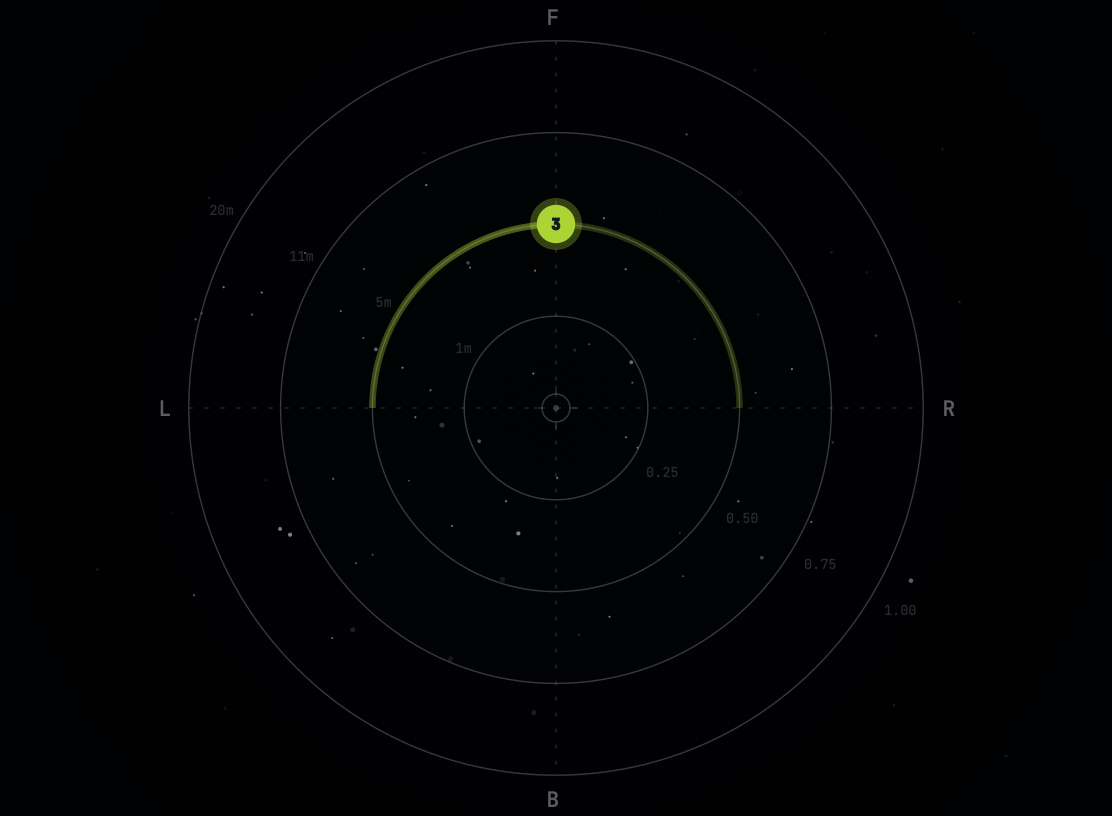
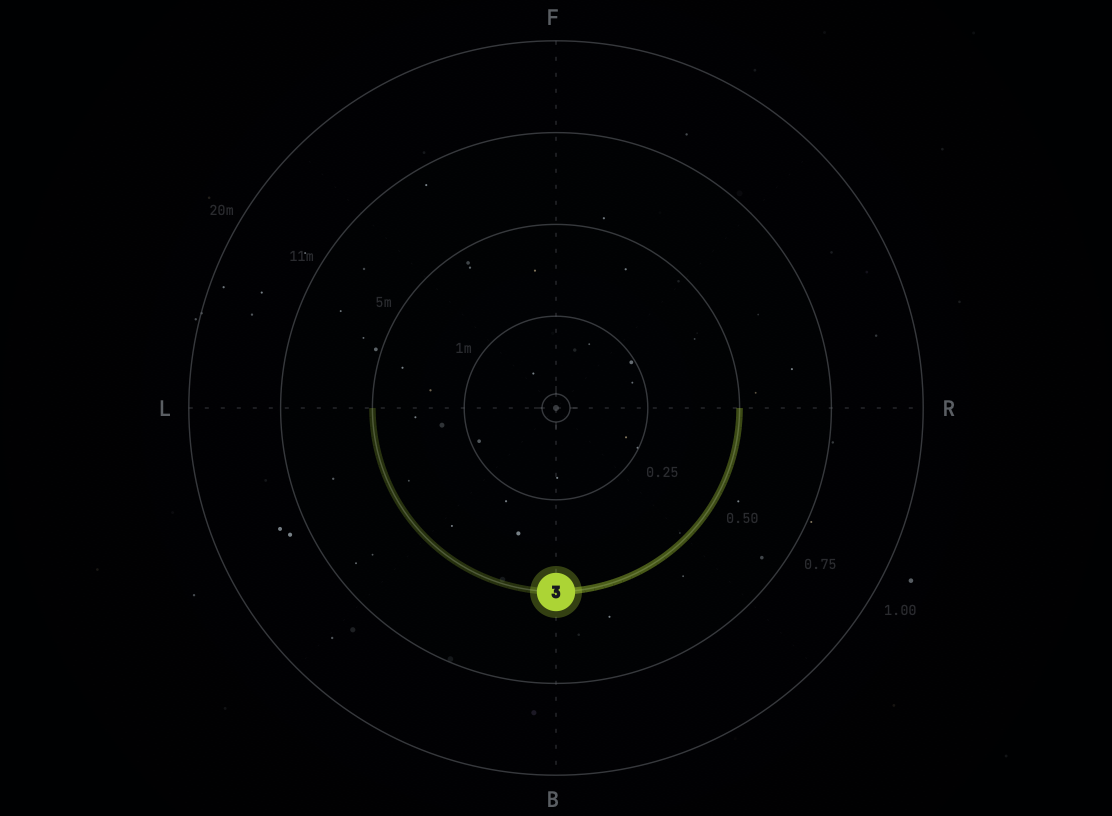
fix(screenshots): move Cross trajectory tap to bottom of map
Cross's elevation arms don't project into the 2D top-down view, so its
on-map path was visually identical to Bounce (upper-hemisphere arc with
tap at 12 o'clock). Cross's origin now sits at az=180° so the tap and
its arc fall on the lower hemisphere — immediately distinguishable
from Bounce.

diff --git a/tools/screenshot_tool.cpp b/tools/screenshot_tool.cpp
@@ -1132,6 +1132,17 @@ int main (int argc, char* argv[])
         }
         const int tapZero = juce::jlimit (1, 12, tapArg) - 1;  // 0-indexed
 
+        // Per-shape origin overrides. Default is (az=0, el=0, dist=0.5) so
+        // every shape is centred at the top of the map. Cross's on-map
+        // projection happens to match Bounce (its elevation arms are invisible
+        // in the 2D top-down view), so its tap is placed at the bottom of the
+        // map (az=180) to visually differentiate the two.
+        float originAz   = 0.0f;
+        float originEl   = 0.0f;
+        float originDist = 0.5f;
+        if (shapeIdx == 3)  // Cross
+            originAz = 180.0f;
+
         auto& apvts = processor.apvts;
         for (int i = 0; i < 12; ++i)
         {
@@ -1156,9 +1167,9 @@ int main (int argc, char* argv[])
             if (i == tapZero)
             {
                 setBool   ("enabled",            true);
-                setFloat  ("azimuth",            0.0f);
-                setFloat  ("elevation",          0.0f);
-                setFloat  ("distance",           0.5f);
+                setFloat  ("azimuth",            originAz);
+                setFloat  ("elevation",          originEl);
+                setFloat  ("distance",           originDist);
                 setChoice ("trajectoryShape",    shapeIdx);
                 setFloat  ("trajectorySpeed",    0.3f);
             }
@@ -1192,9 +1203,9 @@ int main (int argc, char* argv[])
         map.setSelectedObject (tapZero);
 
         TrajectoryState ts;
-        ts.originAzDeg = 0.0f;
-        ts.originElDeg = 0.0f;
-        ts.originDist  = 0.5f;
+        ts.originAzDeg = originAz;
+        ts.originElDeg = originEl;
+        ts.originDist  = originDist;
         ts.shape       = shapeIdx;
         ts.phase       = 0.25f;
         ts.reverse     = false;
@@ -1205,7 +1216,7 @@ int main (int argc, char* argv[])
         // true and therefore getObjectState() returns the live animated
         // position — so the dot drifts off the origin. Force the map to
         // show the tap at the configured base position regardless.
-        map.setObjectState (tapZero, 0.0f, 0.0f, 0.5f, true);
+        map.setObjectState (tapZero, originAz, originEl, originDist, true);
 
         map.setDrawFullTrajectoryForScreenshot (true);
         result = snapshotComponent (map, scaleFactor);
